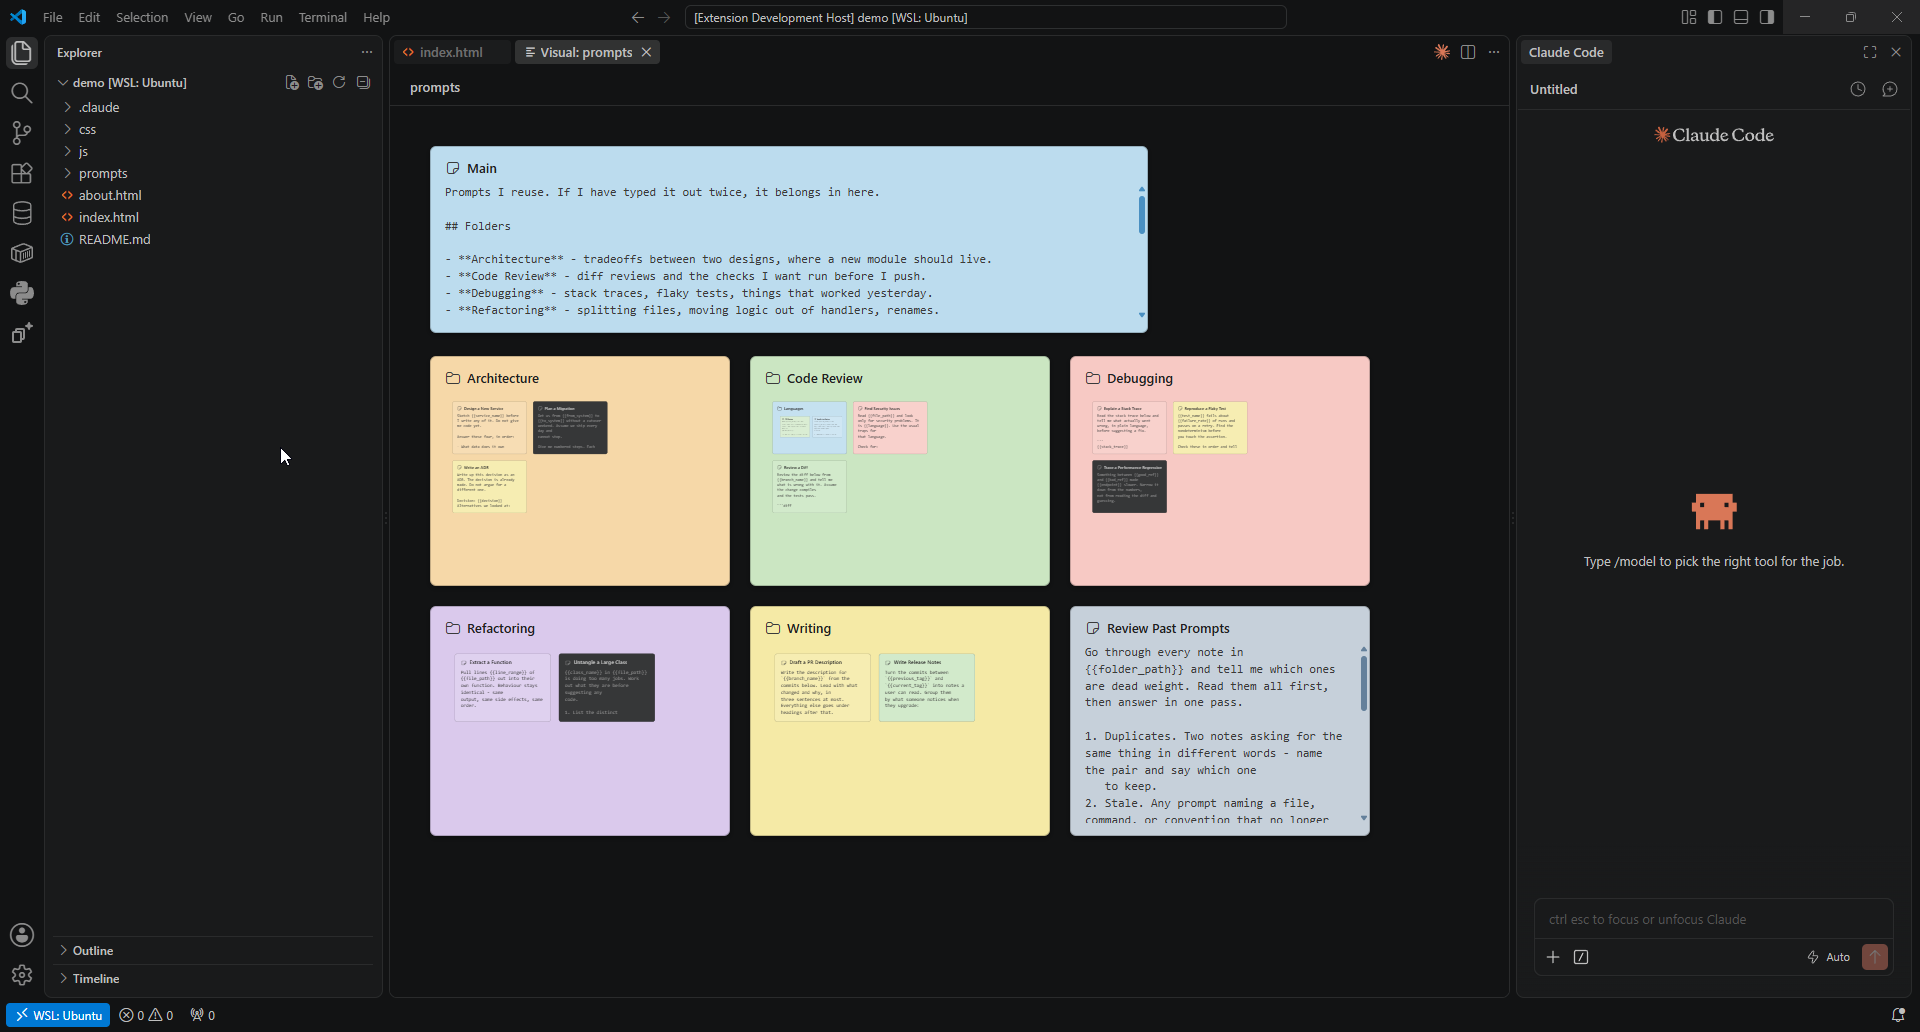
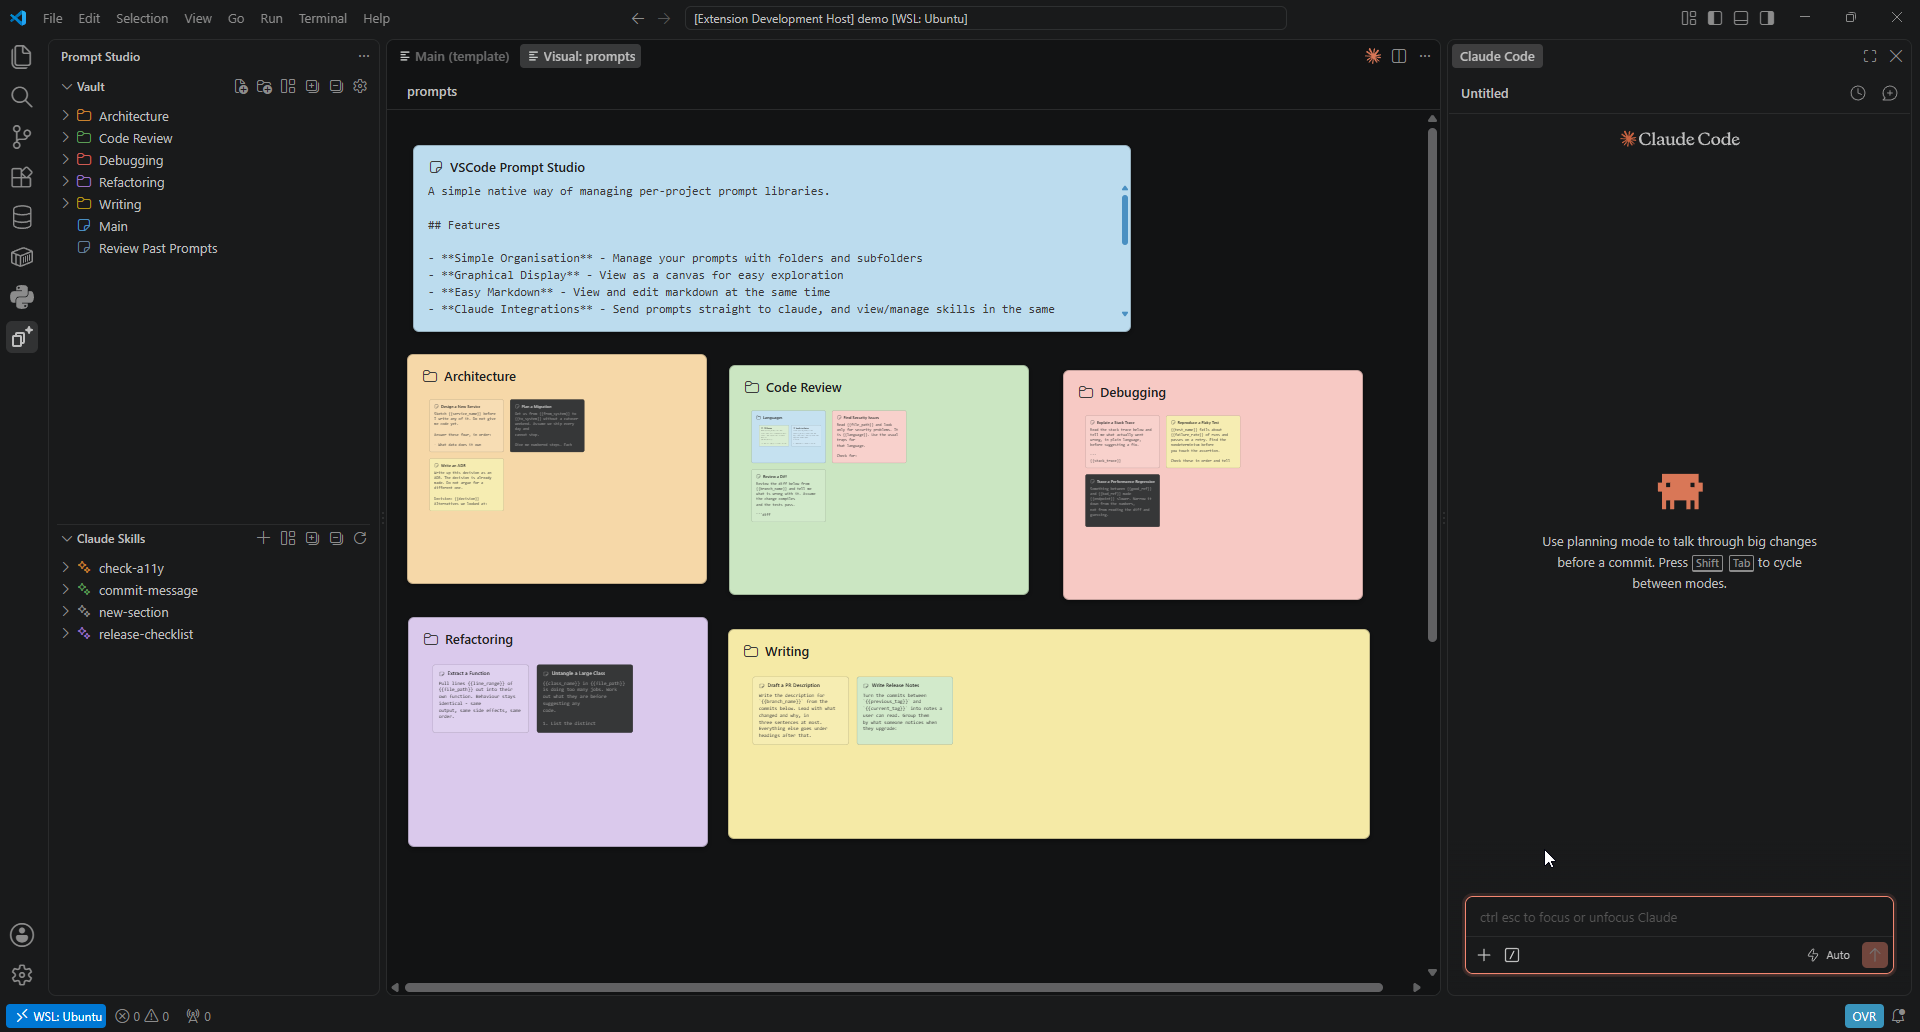
docs: refresh the readme screenshots and the demo vault

diff --git a/demo/prompts/Main.md b/demo/prompts/Main.md
@@ -1,27 +1,18 @@
-# Main
+# VSCode Prompt Studio
 
-Prompts I reuse. If I have typed it out twice, it belongs in here.
+A simple native way of managing per-project prompt libraries.
 
-## Folders
+## Features
 
-- **Architecture** - tradeoffs between two designs, where a new module should live.
-- **Code Review** - diff reviews and the checks I want run before I push.
-- **Debugging** - stack traces, flaky tests, things that worked yesterday.
-- **Refactoring** - splitting files, moving logic out of handlers, renames.
-- **Writing** - commit messages, changelogs, replies on issues.
+- **Simple Organisation** - Manage your prompts with folders and subfolders
+- **Graphical Display** - View as a canvas for easy exploration
+- **Easy Markdown** - View and edit markdown at the same time
+- **Claude Integrations** - Send prompts straight to claude, and view/manage skills in the same sidebar
+- **Storage your way** - Store prompts in a managed folder, or keep them committed right alongside your codebase
 
-## House rules
+## Embedded Code Samples
 
-- Name a variable after the thing that changes. `{{file_path}}` beats `{{input}}` every time.
-- One prompt, one job. If it needs an "and then", it is two prompts.
-- Paste the code in. Describing it gets me an answer about code the assistant never saw.
-
-Every month or so I run [Review Past Prompts](<Review Past Prompts.md>) over the folders and throw out
-whatever has gone stale.
-
-## Starting a new prompt
-
-```text
-Read {{file_path}} and {{task}}. Show me the diff before you touch anything else.
+```py
+print("Syntax highlighting right in the management window!")
 ```
 ![prompt-flow](.attachments/prompt-flow.svg) ![folder-map](.attachments/folder-map.svg)

diff --git a/README.md b/README.md
@@ -12,12 +12,25 @@
 </p>
 
 <p align="center">
+  <img src="docs/template-editor.png" alt="The vault tree and Claude Skills in the sidebar, with a prompt open in the template editor">
+</p>
+
+<p align="center">
+  <i>Both sidebar sections on the left, a prompt open in the template editor, and Send to Claude in the bar along the bottom.</i>
+</p>
+
+<details>
+<summary><b>See a folder open as a canvas</b></summary>
+
+<p align="center">
   <img src="docs/canvas.png" alt="A folder of prompts open as a canvas of colored cards, with Claude Code alongside">
 </p>
 
 <p align="center">
   <i>Any folder, opened as a pinboard. Drag the cards where you want them.</i>
 </p>
+
+</details>
 
 ---
 
@@ -32,19 +45,6 @@ Your prompts and notes are plain `.md` files in a folder you choose, so the same
 - **Your Claude skills, listed.** Every `.claude/skills` folder in the workspace and its sub-projects, in one sidebar section.
 - **`@` mentions that resolve.** Type `@` to search the workspace the way you would in Claude Code. A mention naming a real path is tinted, and Ctrl+click opens it.
 - **A vault per project.** The vault location lives in workspace state, so different projects point at different vaults.
-
-<details>
-<summary><b>See the sidebar and the template editor</b></summary>
-
-<p align="center">
-  <img src="docs/template-editor.png" alt="The vault tree and Claude Skills in the sidebar, with a prompt open in the template editor">
-</p>
-
-<p align="center">
-  <i>Both sidebar sections on the left, a prompt open in the template editor, and Send to Claude in the bar along the bottom.</i>
-</p>
-
-</details>
 
 ## Install
 

diff --git a/CHANGELOG.md b/CHANGELOG.md
@@ -1,5 +1,9 @@
 # Changelog
 
+## 0.2.1
+
+- Refreshed the README screenshots and the demo vault behind them.
+
 ## 0.2.0
 
 - A `promptStudio.defaultNoteView` setting picking whether a note opens in the template editor or as raw markdown. The view you skip sits on the row's hover button and in the right-click menu.
